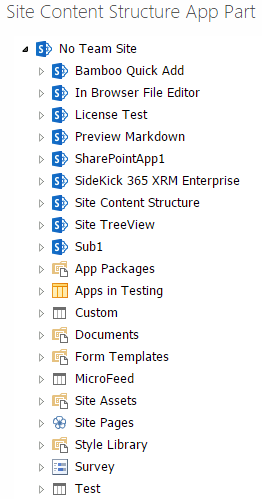
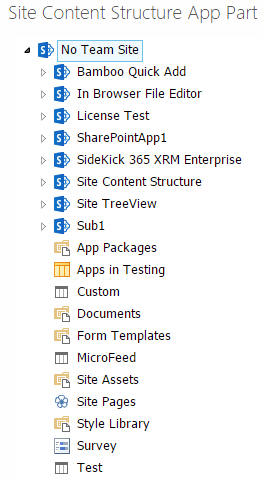
Add link to nodes

Changed region(s): [[0.0305, 0.0, 0.9771, 1.0]]

diff --git a/Scripts/App.js b/Scripts/App.js
@@ -1,4 +1,4 @@
-(function ($, SP) {
+(function ($, SP, window) {
     function getQueryStringParameters() {
         var params = document.URL.split("?")[1].split("&");
         var obj = {};
@@ -16,7 +16,6 @@
     var Node = function () {
         this.id = '';
         this.title = '';
-        this.serverRelativeUrl = '';
         this.absoluteUrl = '';
         this.type = '';
         this.icon = '';
@@ -53,7 +52,7 @@
         var listsRequestExecutor = new SP.RequestExecutor(appWebUrl);
 
         subWebsRequestExecutor.executeAsync({
-            url: appWebUrl + '/_api/SP.AppContextSite(@target)/web/Webs?@target=%27' + absoluteWebUrl + '%27&$select=ID, Title, Url, ServerRelativeUrl',
+            url: appWebUrl + '/_api/SP.AppContextSite(@target)/web/Webs?@target=%27' + absoluteWebUrl + '%27&$select=ID, Title, Url',
             method: 'GET',
             headers: {
                 'accept': 'application/json; odata=verbose'
@@ -67,7 +66,7 @@
         });
 
         listsRequestExecutor.executeAsync({
-            url: appWebUrl + '/_api/SP.AppContextSite(@target)/web/Lists?@target=%27' + absoluteWebUrl + '%27&$select=ID, Title, DefaultDisplayFormUrl, ImageUrl&$filter=Hidden eq false',
+            url: appWebUrl + '/_api/SP.AppContextSite(@target)/web/Lists?@target=%27' + absoluteWebUrl + '%27&$select=ID, Title, DefaultViewUrl, ParentWebUrl, ImageUrl&$filter=Hidden eq false',
             method: 'GET',
             headers: {
                 'accept': 'application/json; odata=verbose'
@@ -92,7 +91,6 @@
             node.type = 'SP.Web';
             node.icon = '/_layouts/15/images/SharePointFoundation16.png';
             node.absoluteUrl = web.get_url();
-            node.serverRelativeUrl = web.get_serverRelativeUrl();
             node.expanded = true;
 
             this.resolve(node);
@@ -101,7 +99,7 @@
         return deferred.promise();
     }
 
-    function createSubNodes(data) {
+    function createSubNodes(data, parentWebAbsoluteUrl) {
         var subNodes = [];
 
         if (!data) {
@@ -125,15 +123,22 @@
                         node.title = result['Title'];
                         node.icon = '/_layouts/15/images/SharePointFoundation16.png';
                         node.absoluteUrl = result['Url'];
-                        node.serverRelativeUrl = result['ServerRelativeUrl'];
                         node.lazy = true;
-                        
+
                         break;
                     case 'SP.List':
                         node.id = result['Id'];
                         node.title = result['Title'];
                         node.icon = result['ImageUrl'];
-                        node.serverRelativeUrl = result['DefaultDisplayFormUrl'];
+
+                        var parentWebUrl = result['ParentWebUrl'];
+                        var defaultViewUrl = result['DefaultViewUrl'];
+                        
+                        if (parentWebUrl == '/') {
+                            node.absoluteUrl = parentWebAbsoluteUrl + defaultViewUrl;
+                        } else {
+                            node.absoluteUrl = parentWebAbsoluteUrl + defaultViewUrl.replace(new RegExp(parentWebUrl), '');
+                        }
 
                         break;
                     default:
@@ -157,7 +162,7 @@
             var listsData = listsRespnose.body;
 
             var subWebsNodes = createSubNodes(subWebsData);
-            var listsNodes = createSubNodes(listsData);
+            var listsNodes = createSubNodes(listsData, node.absoluteUrl);
 
             var children = subWebsNodes.concat(listsNodes);
 
@@ -200,12 +205,25 @@
                         break;
                 }
             },
+            click: function (event, data) {
+                var node = data.node;
+
+                if (data.targetType == 'title') {
+                    window.open(node.data.absoluteUrl, '_blank');
+                }
+            }
         });
     }
-    
+
     function onError(errorMessage) {
         alert(errorMessage);
     }
 
-    queryRootWeb().then(createRootWebNode, onError).then(createSubNodesForWeb, onError).then(render);
-})(jQuery, SP);
+    var App = {
+        run: function () {
+            queryRootWeb().then(createRootWebNode, onError).then(createSubNodesForWeb, onError).then(render);
+        }
+    };
+
+    window.App = App;
+})(jQuery, SP, window);

diff --git a/Pages/SiteContentStructureAppPart.html b/Pages/SiteContentStructureAppPart.html
@@ -21,5 +21,8 @@
         <script type="text/javascript" src="https://ajax.aspnetcdn.com/ajax/jquery.ui/1.11.2/jquery-ui.min.js"></script>
         <script type="text/javascript" src="../Scripts/jquery.fancytree-all.min.js"></script>
         <script type="text/javascript" src="../Scripts/App.js"></script>
+        <script type="text/javascript">
+            App.run();
+        </script>
     </body>
 </html>
